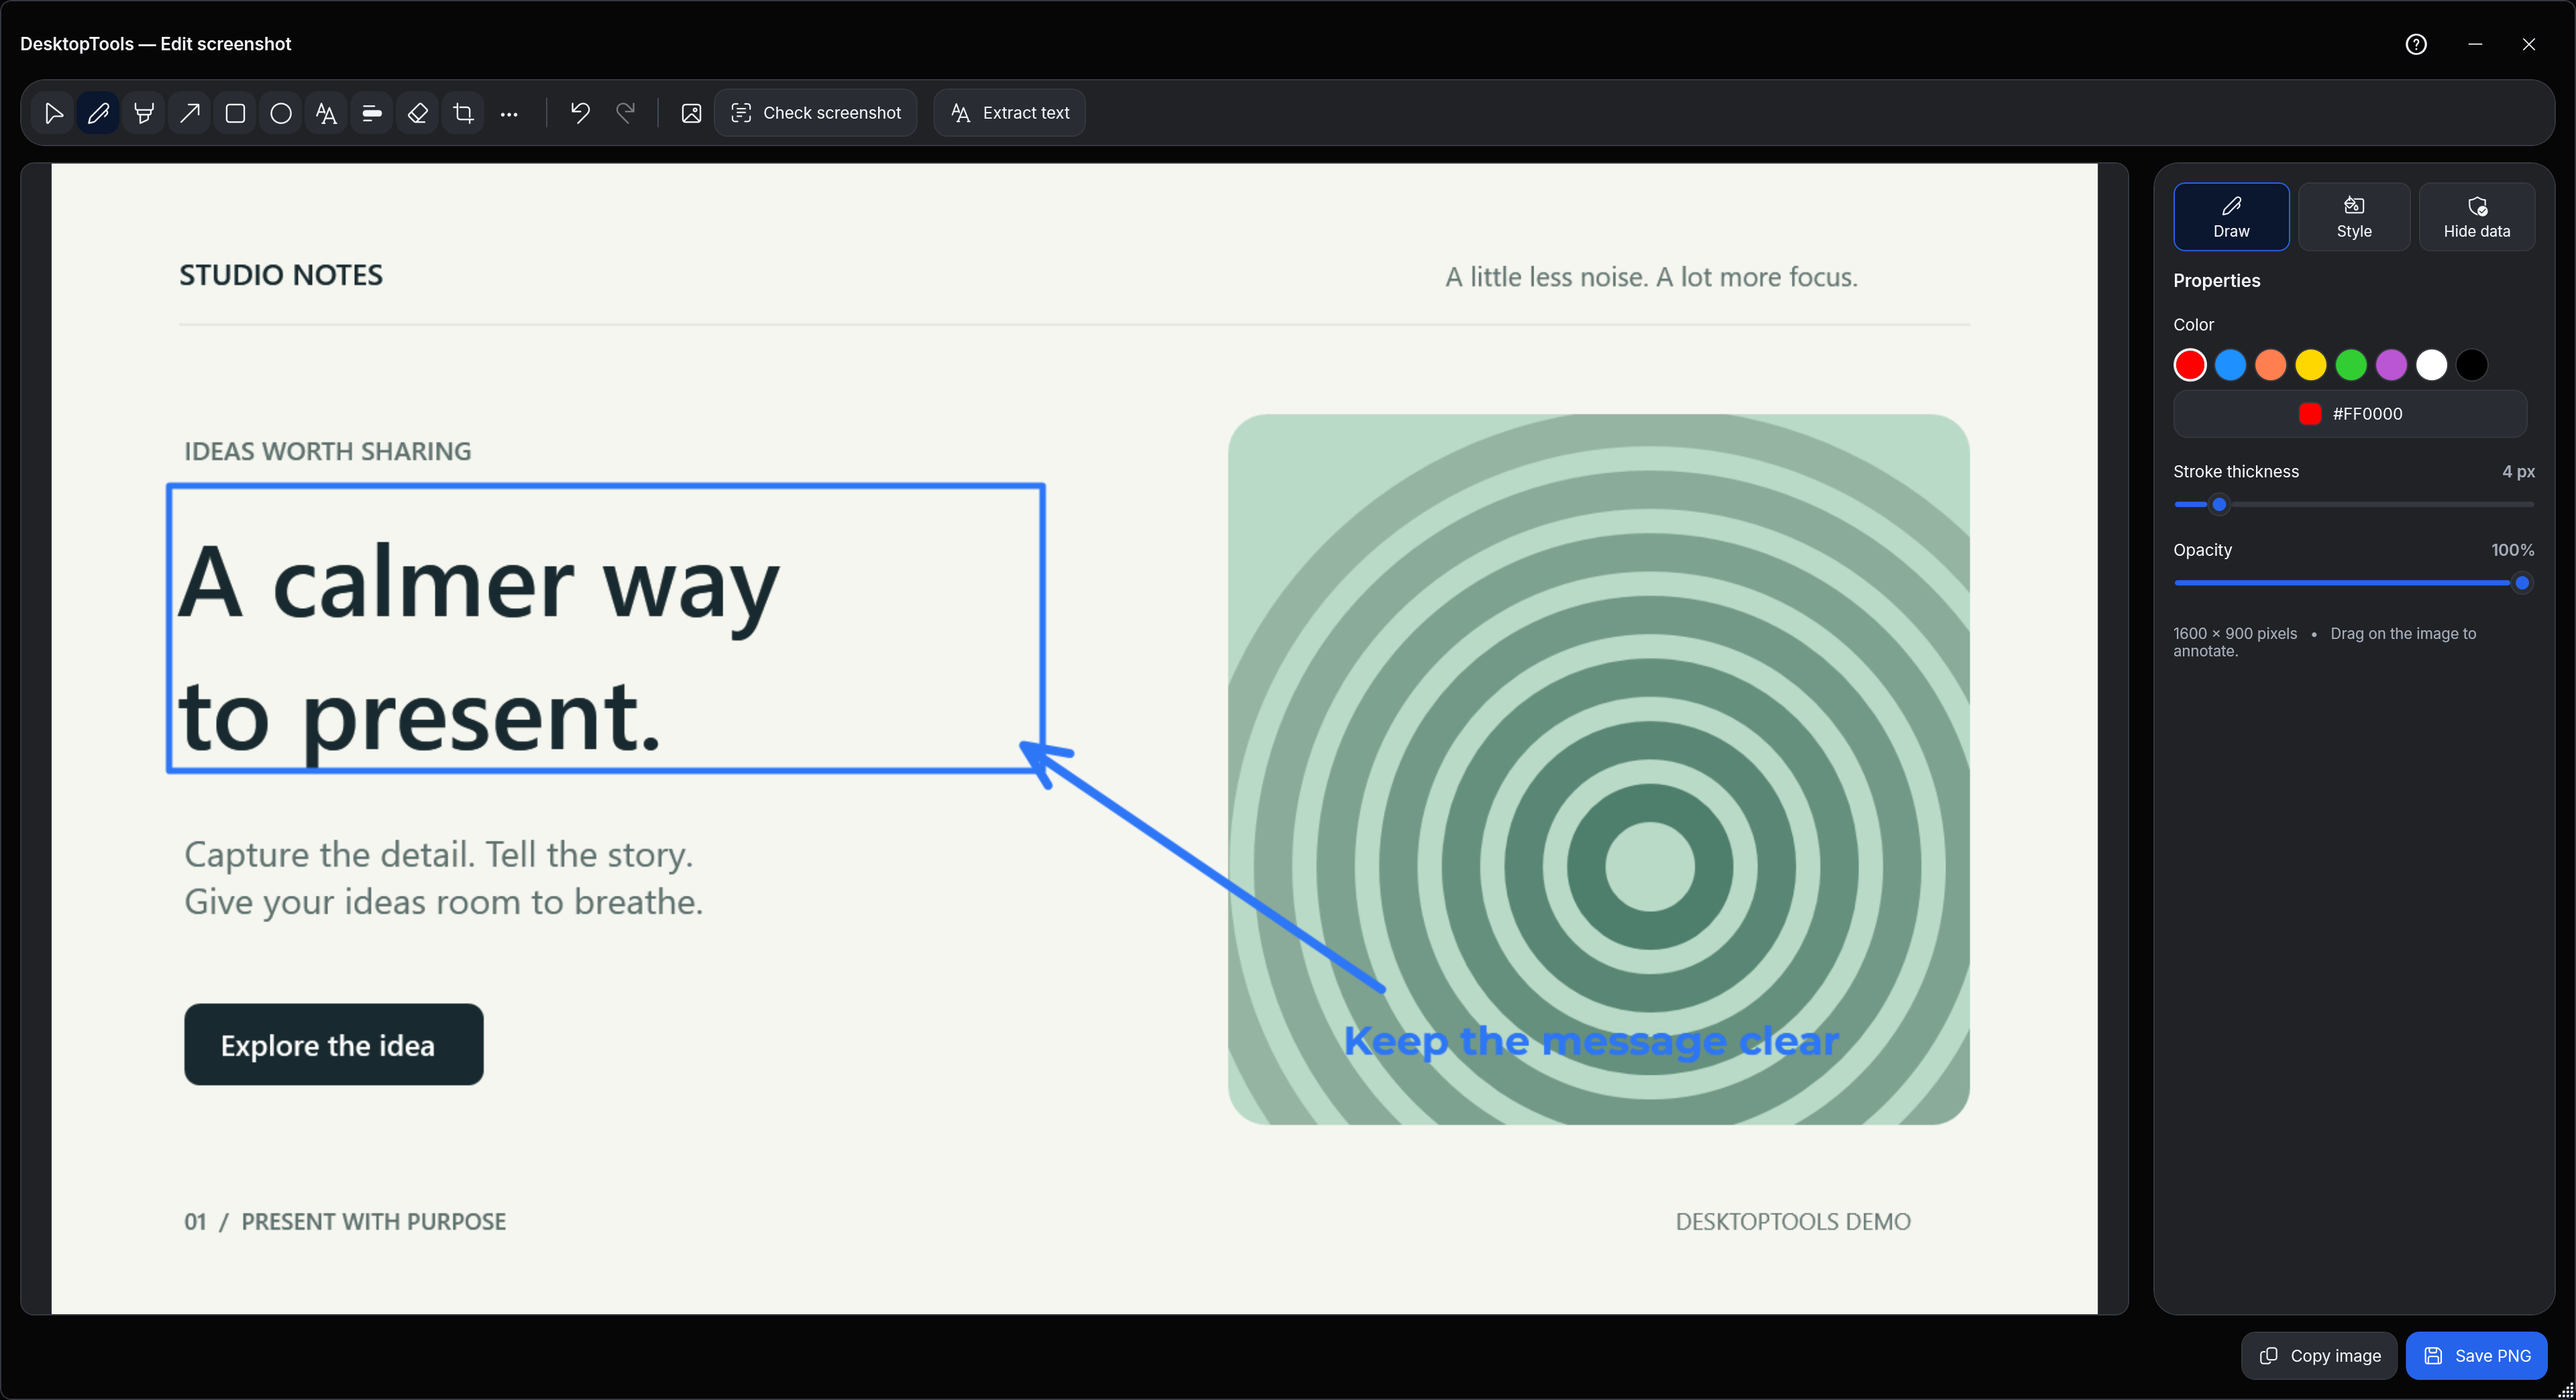
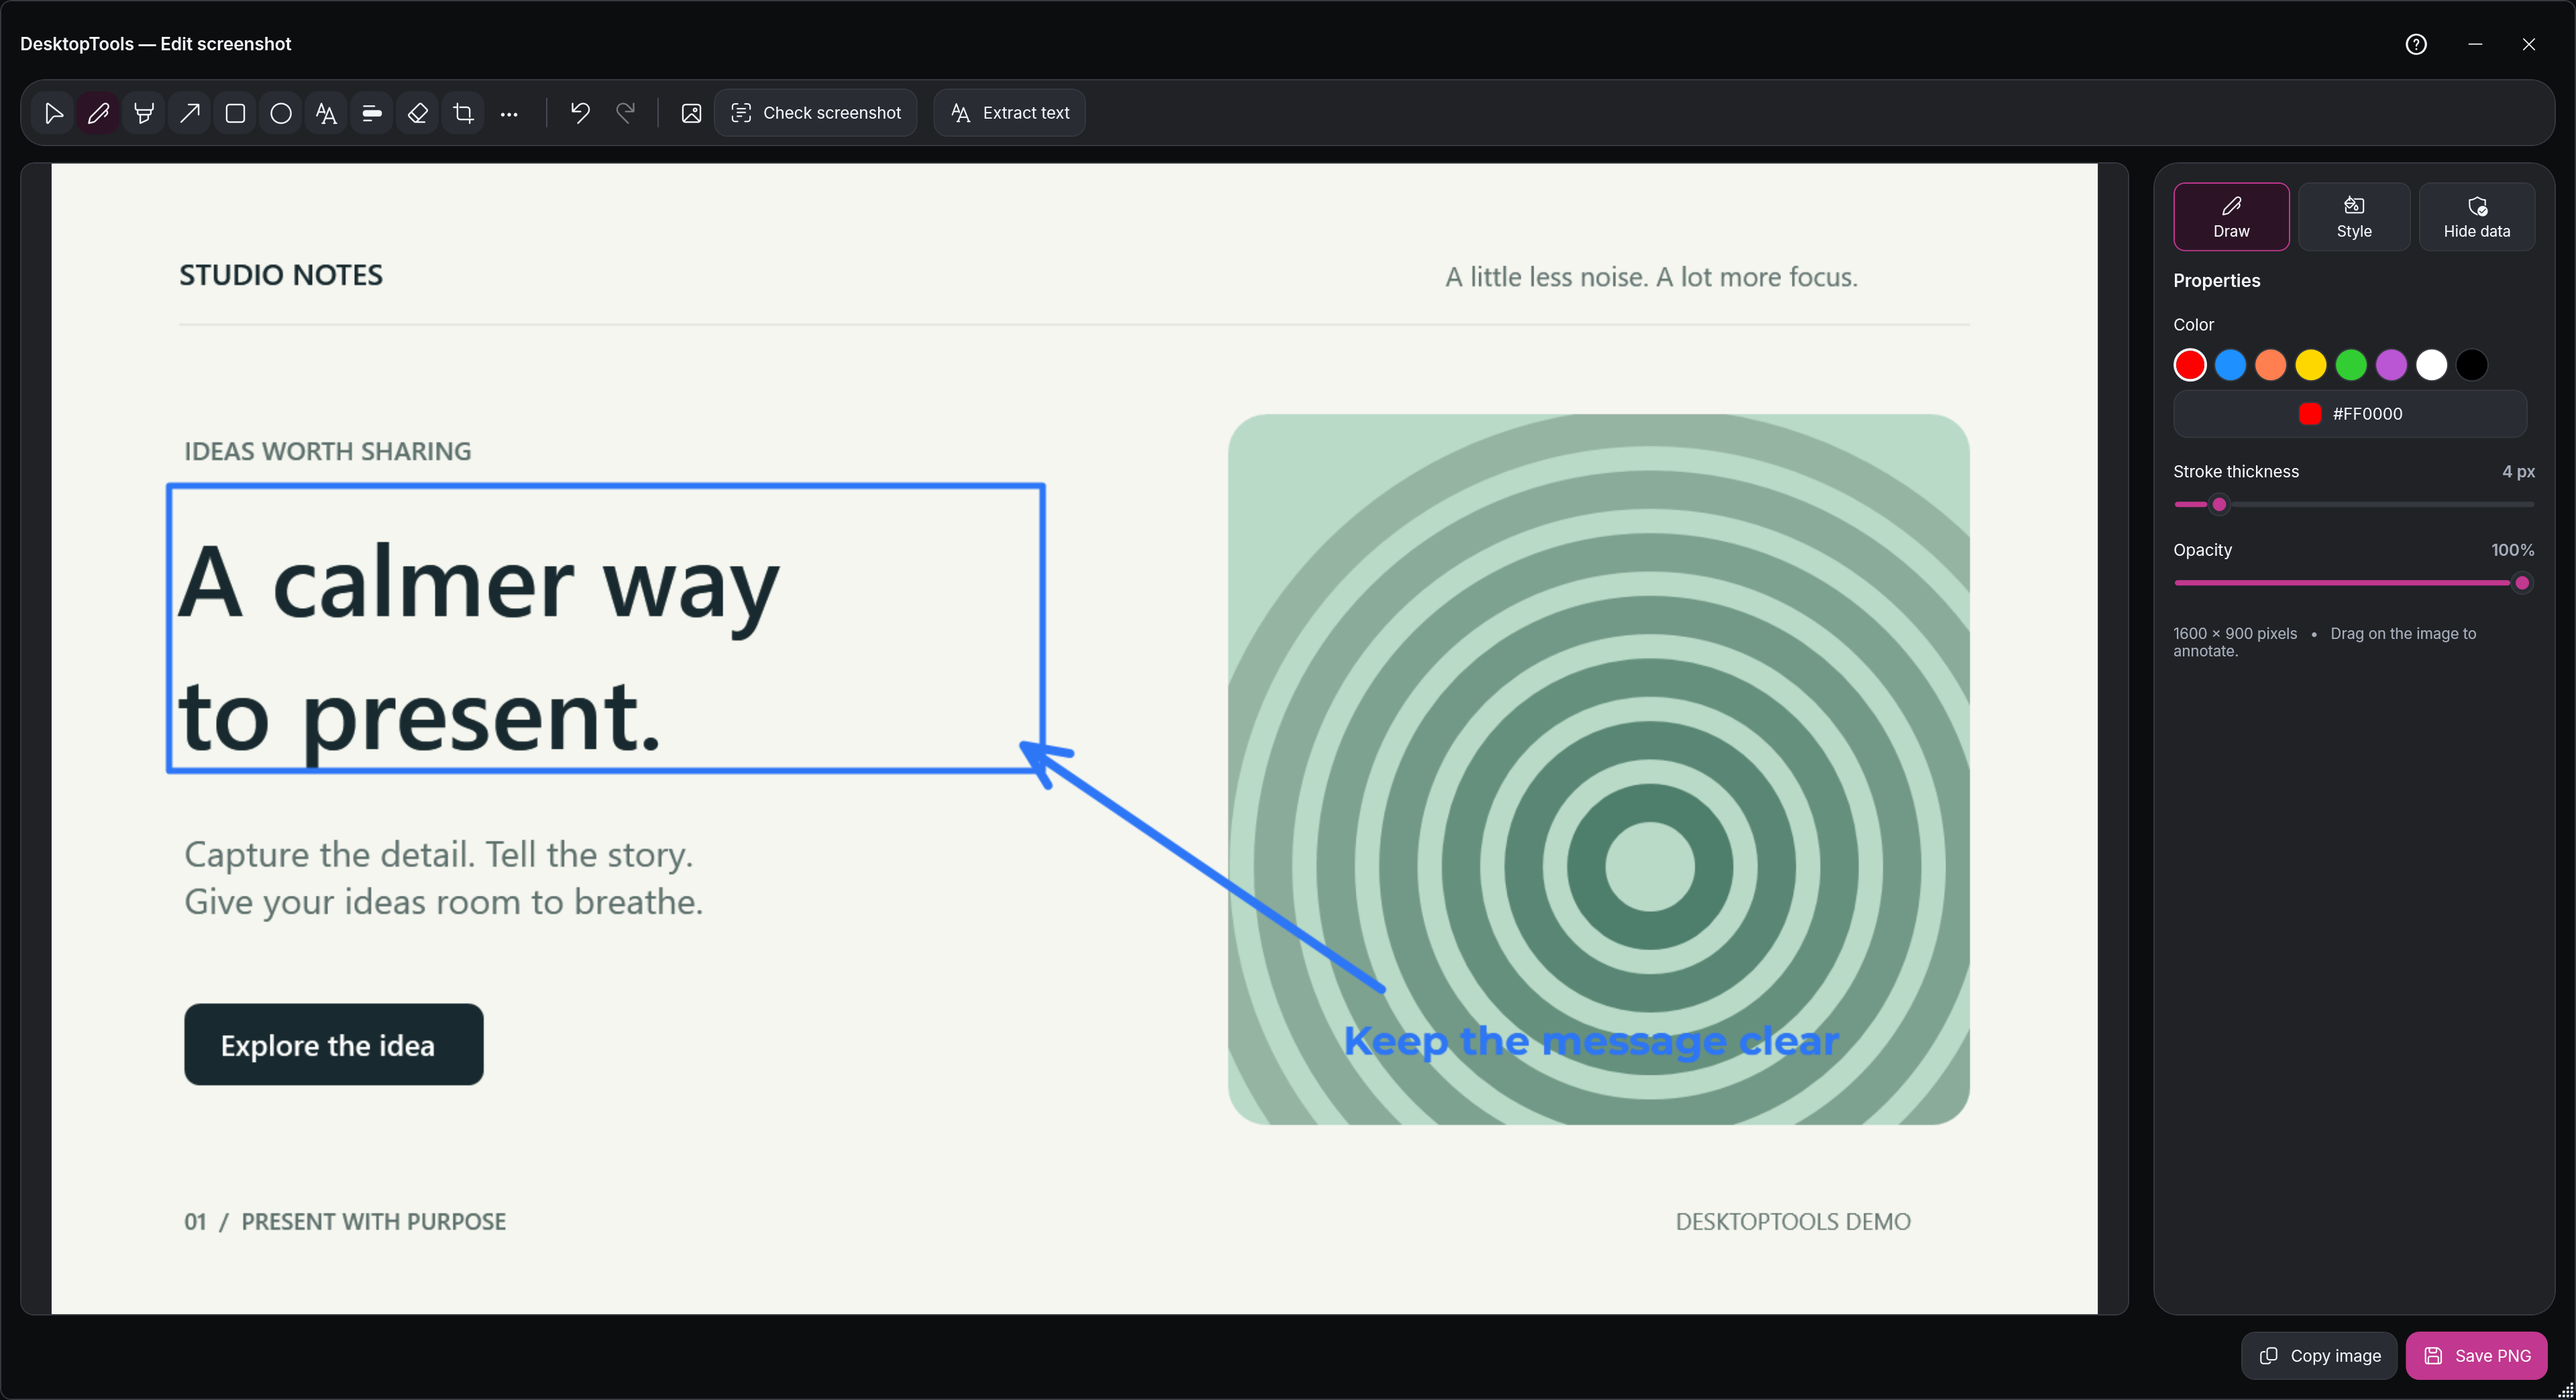
Rerender the README and website screenshots with the 1.3.0 interface
Gallery renders, rounded README images, the README hero animation and
the website hero now show the magenta 1.3.0 UI. The website README
describes the demo videos and the one-chapter scrolling.

diff --git a/website/README.md b/website/README.md
@@ -10,39 +10,37 @@ Both download buttons open the latest GitHub release, where visitors can choose 
 
 The home page has a centered hero with a screenshot of the app, followed by these sections:
 
-- `#features`: four alternating showcase panels for screenshots, recording, presenting and text tools, followed by six smaller tool cards.
+- `#features`: four chapters (screenshots, recording, presenting and text) beside a sticky demo video, followed by six smaller tool cards. On windows wider than 960px one wheel or trackpad scroll moves one chapter; narrower windows show each video under its chapter.
 - `#privacy`: local processing, free features, open source and account-free use, plus the limits of capture exclusion.
 - `#faq`: six native `details` disclosures.
 - `#download`: a final download button and links to checksums and source contributions.
 
-The header links to Features, Privacy, FAQ and the separate Support page. The responsive dark layout uses system fonts and a purple accent. Smooth scrolling, CSS scroll progress and IntersectionObserver reveals respect reduced motion; content stays visible without JavaScript or IntersectionObserver.
+The header links to Features, Privacy, FAQ and the separate Support page. The responsive dark layout uses system fonts and a magenta accent. Smooth scrolling, CSS scroll progress and IntersectionObserver reveals respect reduced motion; content stays visible without JavaScript or IntersectionObserver.
 
 Search and sharing metadata use `https://www.desktoptools.cc/` as the canonical URL. `index.html` contains Open Graph tags for Discord, Telegram, Reddit and other link previews, plus a large X card and truthful `SoftwareApplication` structured data. The social image is `images/social-preview.png`, a 1200 × 630 crop of the latest `assets/desktop-tools-social-preview-v4.png`; keep its dimensions and metadata in sync. `sitemap.xml` lists both canonical pages. If the site moves again, update every absolute URL in `index.html`, `sitemap.xml` and `tests/website-seo.test.cjs` before publishing.
 
 After publishing, verify the URL-prefix property in Google Search Console and submit `https://www.desktoptools.cc/sitemap.xml`. Google may take time to crawl and index the page, and neither metadata nor a submitted sitemap guarantees a search result. The five language choices currently render client-side from one HTML page; they are not separate localized pages for search indexing. Link-preview services may cache older images and metadata for a while.
 
-## Screenshots and a future demo video
+## Screenshots and demo videos
 
-The WebP images in `images/screens/` were converted from PNG renders produced by the `--github-gallery` integration harness. The source gallery is `docs/screenshots/gallery/`; these are real application windows with clean demo content, not mockups or personal desktop captures. From the repository root on Windows, regenerate the gallery with:
+`images/screens/home.webp` is the hero image. It was converted from `01-home-dark.png`, a render from the `--github-gallery` integration harness (`docs/screenshots/gallery/`); these are real application windows with clean demo content, not mockups or personal desktop captures. From the repository root on Windows, regenerate the gallery with:
 
 ```powershell
 dotnet run --project tests/DesktopTools.IntegrationTests/DesktopTools.IntegrationTests.csproj -c Release -p:NuGetAudit=false -- --github-gallery
 ```
 
-`scripts/capture-screenshots.ps1` runs that harness and packages the gallery index. The generated gallery directory is ignored by Git; a checkout may contain only some of these PNGs. Website conversion is a separate authoring step: resize the selected PNGs and export them as WebP with your image tool, then place the results under `images/screens/`. Do not change the original gallery PNGs as a side effect of exporting website copies.
+`scripts/capture-screenshots.ps1` runs that harness and packages the gallery index. The generated gallery directory is ignored by Git. Website conversion is a separate step: resize the PNG and export it as WebP (for example `ffmpeg -i 01-home-dark.png -vf scale=1800:-1 -c:v libwebp -quality 86 home.webp`), keep the HTML `width` and `height` in sync, and never change the original gallery PNGs.
 
-| Website file | Harness PNG output |
+The feature chapters use short screen recordings in `videos/`, recorded against local demo pages with made-up data:
+
+| Chapter | Video |
 | --- | --- |
-| `home.webp` | `01-home-dark.png` |
-| `presentation.webp` | `03-presentation-tools-dark.png` |
-| `editor.webp` | `05-screenshot-editor-dark.png` |
-| `recorder.webp` | `09-screen-recorder-dark.png` |
-| `teleprompter.webp` | `13-teleprompter-dark.png` |
-| `text.webp` | `18-text-from-screenshot-dark.png` |
+| Screenshots | `01-screenshot.mp4`, then `03-check-screenshot.mp4` |
+| Text | `02-extract-text.mp4` |
+| Recording | `04-recording.mp4` |
+| Presenting | `05-present.mp4` |
 
-`home.webp` is the hero image; the four panels use `editor.webp`, `recorder.webp`, `teleprompter.webp` and `text.webp`. `presentation.webp` is available as an alternate. When replacing an image, keep its HTML `width` and `height` in sync with the exported dimensions, and update alt text in the HTML and every dictionary if the content changes.
-
-To add a recorded demo later, put a reviewed recording with non-sensitive demo content in a local directory such as `media/`. Replace the hero image inside `.product-frame` with a native `video` element, local `source` files and `home.webp` as its `poster`. Use `controls`, `playsinline` and `preload="none"`, keep explicit dimensions, and add a translated accessible label and a fallback link to the recording. Provide captions or a transcript for spoken content. Leave playback user-initiated so reduced-motion visitors do not get an autoplaying demo. The existing `.product-frame video` and `.panel-media video` rules support video without a layout change or a third-party player. Update the relevant tests if a showcase screenshot is replaced by video.
+Each clip has a `.webp` poster made from its first frame. Encode new clips without audio as H.264 with `-crf 26 -pix_fmt yuv420p -movflags +faststart`, keep them under about 3 MB, and review every frame for personal content (file dialogs, folder names, notifications, account names) before committing. Videos are muted, play only while visible, and step through `data-sources` in order; with reduced motion they stay paused and show controls. Update the alt text keys `shotEditor`, `shotRecorder`, `shotTeleprompter` and `shotText` in every dictionary if a clip changes.
 
 ## Website checks
 
